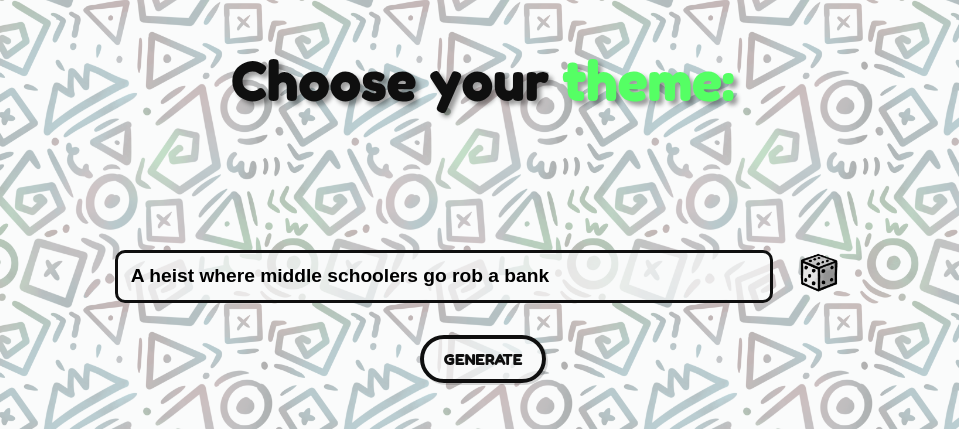
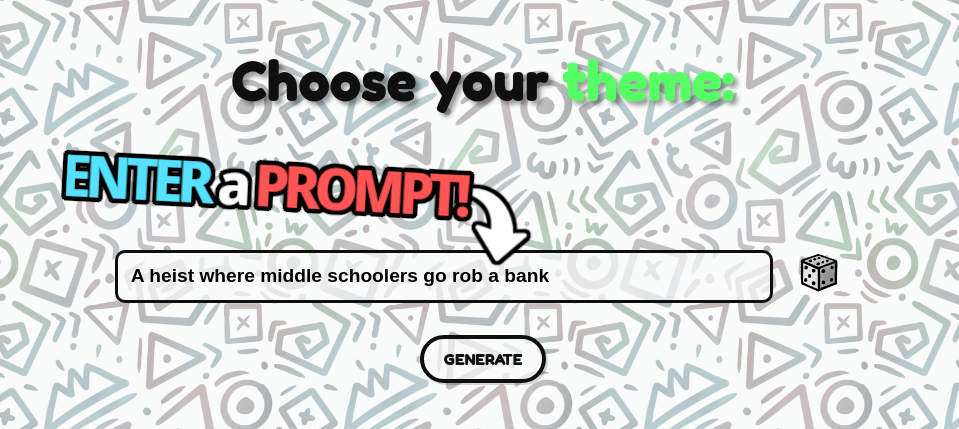
Update README and adjusted landing screen.

Changed region(s): [[0.0605, 0.3333, 0.5746, 0.6364]]

diff --git a/styles.css b/styles.css
@@ -89,7 +89,8 @@ body.dark-mode::before {
   width: 100%;
   max-width: 600px;
   height: auto;
-  margin-top: -2rem;
+  margin-top: 12rem;
+  margin-bottom: 8rem;
   animation: popIn 1s ease, gentle-tilt 4s ease-in-out infinite;
 }
 

diff --git a/README.md b/README.md
@@ -10,8 +10,11 @@
 
 ## Screenshots
 
+**Landing Screen:**
 ![App Screenshot](https://github.com/KIKODER/impromptd/blob/main/assets/impromptdlanding.png?raw=true)
+**Theme Input Screen:**
 ![App Screenshot](https://github.com/KIKODER/impromptd/blob/main/assets/themescreen2.png?raw=true)
+**Story Screen:**
 ![App Screenshot](https://github.com/KIKODER/impromptd/blob/main/assets/storyscreen.png?raw=true)
 
 
@@ -26,6 +29,7 @@
 - Play again functionality for replayability
 - Loading feedback while the AI generates content
 - Fully accessible keyboard navigation and clean UI
+
 ## Tech Stack
 
 **Client:** HTML, CSS, JavaScript (Vanilla), OpenAI API
